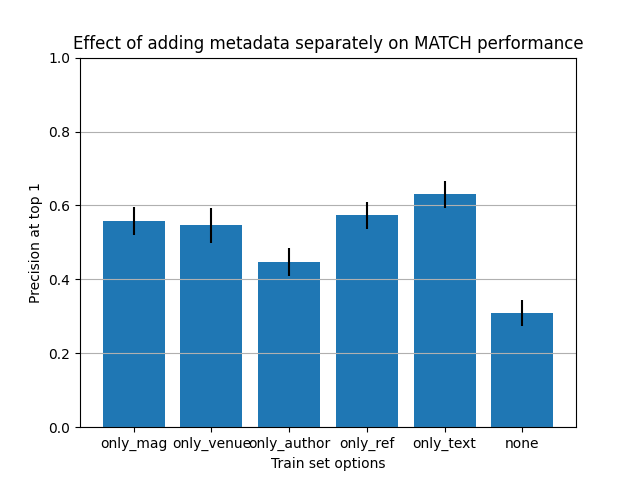
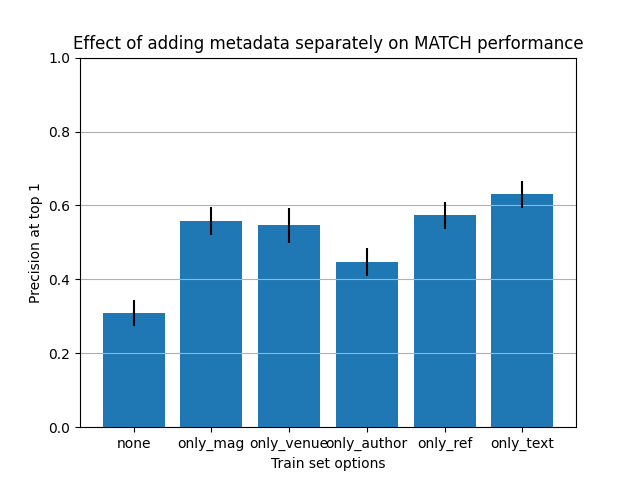
older plots too!

diff --git a/auto-labeler/MATCH/analysis/perf_plots.py b/auto-labeler/MATCH/analysis/perf_plots.py
@@ -258,6 +258,65 @@ def main(results_path, plots_path, verbose):
     plt.clf()
 
     ########################################
+    # OLD ABLATIONS FROM FULL
+    ########################################
+
+    table_path = os.path.join(results_path, 'old_ablations_from_full.txt')
+    columns, stds = extract_data(table_path)
+
+    opts = columns['Train set options']
+    p1 = columns['P@1=nDCG@1']
+    p1err = stds['P@1=nDCG@1']
+
+    plt.grid(axis='y')
+
+    plt.bar(opts, p1, yerr=p1err, label='P@1')  
+    plt.xlabel('Train set options')
+    plt.ylabel('Precision at top 1')
+    plt.ylim(0, 1)
+    # plt.legend()
+
+    NO_TITLE_PLOT_PATH = os.path.join(PLOTS_PATH, f'no_title_old_ablations_from_full.png')
+    plt.savefig(fname=NO_TITLE_PLOT_PATH, facecolor='w', transparent=False)
+    perfLogger.info(f"A titleless plot is saved as {NO_TITLE_PLOT_PATH}")
+
+    plt.title(f'Preliminary effect of removing metadata separately on MATCH performance')
+    PLOT_PATH = os.path.join(PLOTS_PATH, f'old_ablations_from_full.png')
+    plt.savefig(fname=PLOT_PATH, facecolor='w', transparent=False)
+    perfLogger.info(f"A plot is saved as {PLOT_PATH}")
+
+    plt.clf()
+
+    ########################################
+    # ABLATIONS FROM NONE
+    ########################################
+
+    table_path = os.path.join(results_path, 'old_ablations_from_none.txt')
+    columns, stds = extract_data(table_path)
+
+    opts = columns['Train set options']
+    p1 = columns['P@1=nDCG@1']
+    p1err = stds['P@1=nDCG@1']
+
+    plt.grid(axis='y')
+    plt.bar(opts, p1, yerr=p1err, label='P@1')  
+    plt.xlabel('Train set options')
+    plt.ylabel('Precision at top 1')
+    plt.ylim(0, 1)
+    # plt.legend()
+
+    NO_TITLE_PLOT_PATH = os.path.join(PLOTS_PATH, f'no_title_old_ablations_from_none.png')
+    plt.savefig(fname=NO_TITLE_PLOT_PATH, facecolor='w', transparent=False)
+    perfLogger.info(f"A titleless plot is saved as {NO_TITLE_PLOT_PATH}")
+
+    plt.title(f'Preliminary effect of adding metadata separately on MATCH performance')
+    PLOT_PATH = os.path.join(PLOTS_PATH, f'old_ablations_from_none.png')
+    plt.savefig(fname=PLOT_PATH, facecolor='w', transparent=False)
+    perfLogger.info(f"A plot is saved as {PLOT_PATH}")
+
+    plt.clf()
+
+    ########################################
     # LEARNING RATE
     ########################################
 
